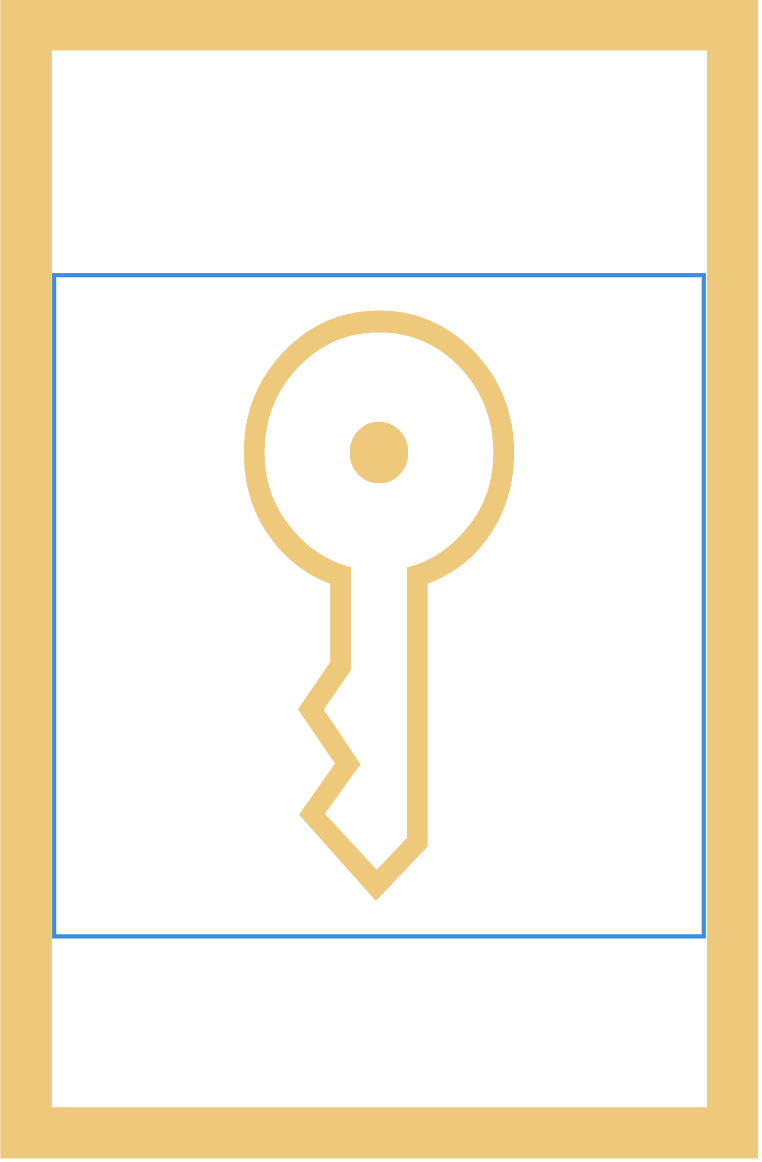
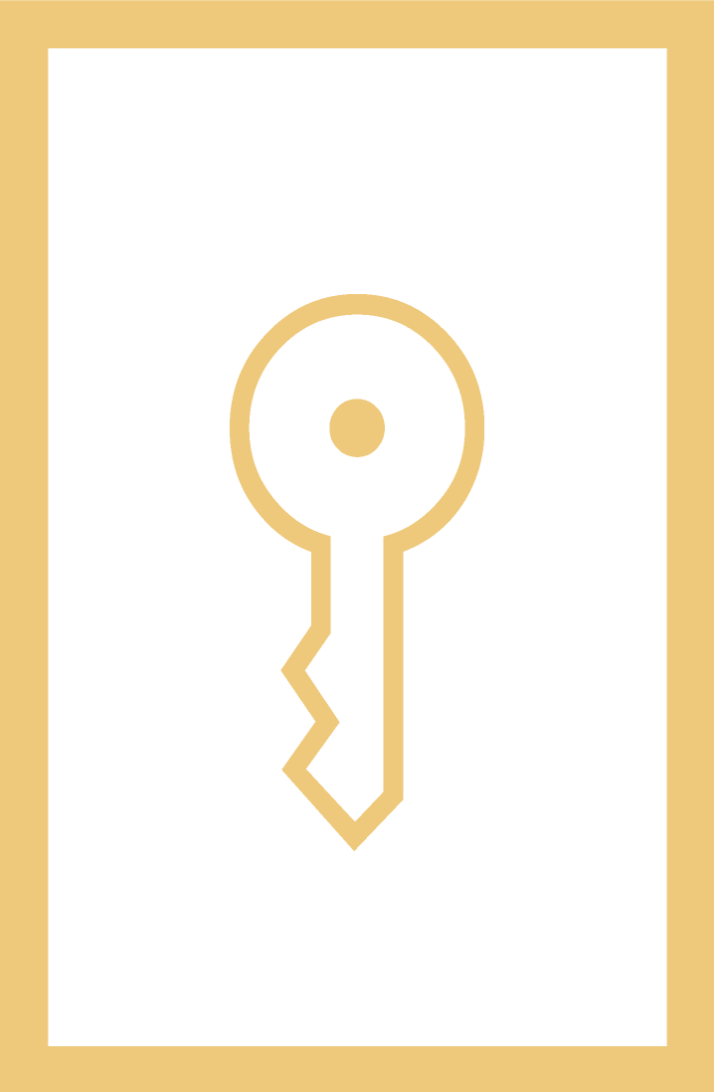
feat/ 모달 창 구현 완료 및 사진 변경

diff --git a/play/asset/script.js b/play/asset/script.js
@@ -67,3 +67,13 @@ const resizing = () => {
     elem.style.height = `${cell_size}px`;
   }
 };
+
+function resizeModalToImage(img) {
+  const modal = document.querySelector(".modal");
+ 
+  const imgWidth = img.width;
+  const imgHeight = img.height;
+  
+  modal.style.width = `${imgWidth}px`;
+  modal.style.height = `${imgHeight}px`;
+}

diff --git a/play/index.html b/play/index.html
@@ -13,7 +13,8 @@
     <section class="map"></section>
     <div class="modal-background">
       <div class="modal">
-        
+        <img src="./static/cap_9.png" class="modal-image" onload="resizeModalToImage(this)" alt="modal content">
+      </div>
     </div>
   </body>
 </html>
